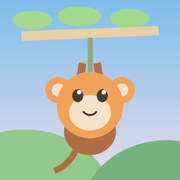
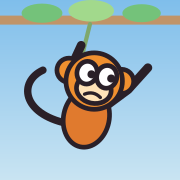
Add files via upload

diff --git a/index.html b/index.html
@@ -6,11 +6,11 @@
 <meta name="apple-mobile-web-app-capable" content="yes">
 <meta name="mobile-web-app-capable" content="yes">
 <meta name="apple-mobile-web-app-status-bar-style" content="black-translucent">
-<meta name="apple-mobile-web-app-title" content="Thread">
+<meta name="apple-mobile-web-app-title" content="Chimpy">
 <meta name="theme-color" content="#7FBEEB">
 <link rel="manifest" href="manifest.json">
 <link rel="apple-touch-icon" href="icons/icon-180.png">
-<title>Thread</title>
+<title>Chimpy</title>
 <style>
   * { margin:0; padding:0; box-sizing:border-box; -webkit-tap-highlight-color:transparent; }
   html, body {
@@ -94,10 +94,10 @@ const COL = {
   fruit: "#E0685C",
   bark: "#C09468",
 
-  fur: "#F2A257",    // the monkey pops against all of it
-  furDark: "#D07F42",
-  belly: "#FBEBD2",
-  ink: "#3F3A46",
+  fur: "#F0902F",    // the monkey pops against all of it
+  furDark: "#E07A2E",
+  belly: "#FFE3B8",
+  ink: "#2A2028",
   accent: "#F0B455",
   bad: "#E0685C",
   rope: "#7FA86B",
@@ -368,6 +368,8 @@ const hash = (n) => {
       canvas.style.height = h + "px";
       canvas.style.width = w + "px";
       canvas.style.height = h + "px";
+      canvas.style.width = w + "px";
+      canvas.style.height = h + "px";
       canvas.width = Math.round(w * dpr);
       canvas.height = Math.round(h * dpr);
       const probe = document.getElementById("safe");
@@ -578,84 +580,76 @@ const hash = (n) => {
     };
 
     /* ---------- character ----------
-       flat shapes only. no outlines, no gradients — forms read by colour
-       separation, with one darker tone for anything underneath */
+       drawn in the same units as the SVG mark (head radius 42) and scaled
+       down, so the game character and the site character are the same
+       drawing. flat fills, one dark outline, gentle frown. */
     const drawMonkey = (s, ang) => {
-      const r = PR * 1.9;
-      const t = s.armT;
-      const mixp = (a, b) => a + (b - a) * t;
+      const SC = PR / 24;
+      const t = s.armT;                       // 1 holding the vine, 0 flying
+      const mix = (a, b) => a + (b - a) * t;
 
       ctx.save();
       ctx.translate(s.px, s.py);
-      ctx.rotate(ang);
-
-      // tail — one clean curve, rounded cap
-      const tw = Math.sin(s.tailPhase) * 0.45;
-      ctx.beginPath();
-      ctx.moveTo(-r * 0.5, r * 0.35);
-      ctx.quadraticCurveTo(-r * 2.1, r * 0.55 + tw * r,
-                           -r * 2.0, -r * 0.45 + tw * r * 1.4);
-      ctx.strokeStyle = COL.furDark;
-      ctx.lineWidth = 5;
+      ctx.rotate(ang + (12 * Math.PI / 180) * t);   // leans while swinging
+      ctx.scale(SC, SC);
+      ctx.lineJoin = "round";
       ctx.lineCap = "round";
-      ctx.stroke();
+      ctx.strokeStyle = COL.ink;
 
-      // arms behind the body
-      ctx.strokeStyle = COL.furDark;
-      ctx.lineWidth = 6.5;
-      ctx.beginPath();
-      ctx.moveTo(mixp(-r * 0.5, -r * 0.4), mixp(r * 0.05, -r * 0.1));
-      ctx.lineTo(mixp(-r * 1.7, -r * 0.45), mixp(-r * 0.55, -r * 1.6));
-      ctx.moveTo(mixp(r * 0.5, r * 0.4), mixp(r * 0.05, -r * 0.1));
-      ctx.lineTo(mixp(r * 1.6, r * 0.45), mixp(-r * 0.25, -r * 1.6));
-      ctx.stroke();
-
-      // body — a soft rounded blob
-      ctx.beginPath();
-      ctx.ellipse(0, r * 0.5, r * 0.72, r * 0.66, 0, 0, 6.3);
-      ctx.fillStyle = COL.furDark;
-      ctx.fill();
-
-      // ears
-      ctx.fillStyle = COL.fur;
-      ctx.beginPath(); ctx.arc(-r * 0.88, -r * 0.42, r * 0.36, 0, 6.3); ctx.fill();
-      ctx.beginPath(); ctx.arc(r * 0.88, -r * 0.42, r * 0.36, 0, 6.3); ctx.fill();
-      ctx.fillStyle = COL.belly;
-      ctx.beginPath(); ctx.arc(-r * 0.88, -r * 0.42, r * 0.18, 0, 6.3); ctx.fill();
-      ctx.beginPath(); ctx.arc(r * 0.88, -r * 0.42, r * 0.18, 0, 6.3); ctx.fill();
-
-      // head — big, the way a kids' character reads
-      ctx.beginPath();
-      ctx.arc(0, -r * 0.12, r * 0.92, 0, 6.3);
-      ctx.fillStyle = COL.fur;
-      ctx.fill();
-
-      // face patch
-      ctx.beginPath();
-      ctx.ellipse(0, r * 0.12, r * 0.6, r * 0.5, 0, 0, 6.3);
-      ctx.fillStyle = COL.belly;
-      ctx.fill();
-
-      // eyes: dot plus highlight
-      const open = s.blink > 0 ? 0.12 : 1;
-      for (const ex of [-r * 0.34, r * 0.34]) {
+      const stroked = (fill, w, path) => {
         ctx.beginPath();
-        ctx.ellipse(ex, -r * 0.3, r * 0.15, r * 0.18 * open, 0, 0, 6.3);
+        path();
+        ctx.lineWidth = w;
+        ctx.stroke();
+        if (fill) { ctx.fillStyle = fill; ctx.fill(); }
+      };
+
+      // tail
+      ctx.lineWidth = 11;
+      ctx.beginPath();
+      ctx.moveTo(-26, 40);
+      ctx.bezierCurveTo(-96, 40, -110, -6, -78, -30);
+      ctx.stroke();
+
+      // arms: gripping up when held, swept out when free
+      ctx.lineWidth = 13;
+      ctx.beginPath();
+      ctx.moveTo(-22, 4);
+      ctx.lineTo(mix(-52, -40), mix(-20, -34));
+      ctx.lineTo(mix(-84, -30), mix(-2, -78));
+      ctx.moveTo(22, 6);
+      ctx.lineTo(mix(56, 52), mix(-8, -28));
+      ctx.lineTo(mix(86, 74), mix(-18, -66));
+      ctx.stroke();
+
+      ctx.lineWidth = 7;
+      // body
+      stroked(COL.furDark, 7, () => ctx.ellipse(0, 26, 34, 44, 0, 0, 6.3));
+      // ears
+      stroked(COL.fur, 7, () => ctx.arc(-40, -38, 18, 0, 6.3));
+      stroked(COL.fur, 7, () => ctx.arc(40, -38, 18, 0, 6.3));
+      // head
+      stroked(COL.fur, 7, () => ctx.arc(0, -30, 42, 0, 6.3));
+      // face patch
+      stroked(COL.belly, 7, () => ctx.ellipse(2, -18, 26, 21, 0, 0, 6.3));
+
+      // eyes, looking where he is going
+      const open = s.blink > 0 ? 0.14 : 1;
+      stroked("#FFFFFF", 7,
+        () => ctx.ellipse(-13, -40, 15, 17 * open, 0, 0, 6.3));
+      stroked("#FFFFFF", 7,
+        () => ctx.ellipse(17, -40, 15, 17 * open, 0, 0, 6.3));
+      if (open > 0.5) {
         ctx.fillStyle = COL.ink;
-        ctx.fill();
-        if (open > 0.5) {
-          ctx.beginPath();
-          ctx.arc(ex + r * 0.06, -r * 0.36, r * 0.05, 0, 6.3);
-          ctx.fillStyle = "#FFFFFF";
-          ctx.fill();
-        }
+        ctx.beginPath(); ctx.arc(-6, -39, 6, 0, 6.3); ctx.fill();
+        ctx.beginPath(); ctx.arc(24, -39, 6, 0, 6.3); ctx.fill();
       }
 
-      // small smile
+      // gentle frown
+      ctx.lineWidth = 5;
       ctx.beginPath();
-      ctx.arc(0, r * 0.04, r * 0.2, 0.3, Math.PI - 0.3);
-      ctx.strokeStyle = COL.ink;
-      ctx.lineWidth = 2.2;
+      ctx.moveTo(-10, -8);
+      ctx.quadraticCurveTo(2, -16, 14, -8);
       ctx.stroke();
 
       ctx.restore();
@@ -741,8 +735,17 @@ const hash = (n) => {
       // ---- ground, two bands
       {
         const gy = H * 0.90;
+        // wavy top edge — a fillRect here leaves a hard line across the screen
         ctx.fillStyle = COL.ground2;
-        ctx.fillRect(-40, gy, W + 80, H - gy + 120);
+        ctx.beginPath();
+        ctx.moveTo(-40, gy);
+        for (let x = -40; x <= W + 40; x += 20) {
+          ctx.lineTo(x, gy + Math.sin((x + cx * 0.18) / 240 + 2.1) * 14);
+        }
+        ctx.lineTo(W + 40, H + 120);
+        ctx.lineTo(-40, H + 120);
+        ctx.closePath();
+        ctx.fill();
         ctx.fillStyle = COL.ground1;
         ctx.beginPath();
         ctx.moveTo(-40, gy + 40);
@@ -766,16 +769,22 @@ const hash = (n) => {
       const L = cx - vw / 2, R = cx + vw / 2, T = cy - vh / 2, B = cy + vh / 2;
 
       // canopy shade, faded out so it has no visible edge
-      const cz = ctx.createLinearGradient(0, WORLD_TOP, 0, 320);
+      const cz = ctx.createLinearGradient(0, WORLD_TOP + 220, 0, 320);
       cz.addColorStop(0, "rgba(76,109,115,0.22)");
       cz.addColorStop(1, "rgba(76,109,115,0)");
       ctx.fillStyle = cz;
-      ctx.fillRect(L - 50, WORLD_TOP, vw + 100, 320 - WORLD_TOP);
+      ctx.fillRect(L - 50, WORLD_TOP + 220, vw + 100, 320 - WORLD_TOP - 220);
+      ctx.fillStyle = "rgba(76,109,115,0.22)";
+      ctx.fillRect(L - 50, WORLD_TOP - 400, vw + 100, 620);
+      // undergrowth: fades in at the top and then runs all the way to the
+      // bottom of the world. stopping it short left a hard edge on screen
       const hz = ctx.createLinearGradient(0, DEATH_Y - 220, 0, DEATH_Y + 40);
       hz.addColorStop(0, "rgba(76,109,115,0)");
       hz.addColorStop(1, "rgba(76,109,115,0.92)");
       ctx.fillStyle = hz;
       ctx.fillRect(L - 50, DEATH_Y - 220, vw + 100, 260);
+      ctx.fillStyle = "rgba(76,109,115,0.92)";
+      ctx.fillRect(L - 50, DEATH_Y + 40, vw + 100, WORLD_BOT - DEATH_Y);
 
       // the trunks you actually play against
       const leafyColumn = (x, y0, y1) => {
@@ -935,10 +944,6 @@ const hash = (n) => {
       ctx.restore();
 
 
-      if (s.flash > 0) {
-        ctx.fillStyle = "rgba(255,246,214," + s.flash * 0.3 + ")";
-        ctx.fillRect(0, 0, W, H);
-      }
 
       /* ---------- hud ---------- */
       const u = s.ui;

diff --git a/sw.js b/sw.js
@@ -1,4 +1,4 @@
-var CACHE = "thread-v13";
+var CACHE = "chimpy-v2";
 var ASSETS = ["./", "./index.html", "./manifest.json",
   "./icons/icon-180.png", "./icons/icon-192.png", "./icons/icon-512.png"];
 self.addEventListener("install", function (e) {

diff --git a/README.md b/README.md
@@ -1,24 +1,22 @@
-# Thread
+# Chimpy
 
 Swing on a vine, let go at the right moment, fly through the gap. One tap.
 
+Game logic is the build previously tagged thread-v13.
+Fingerprints: G = 606, RAMP = 38, gap lerp(238, 58).
+
+## Install on iPhone
+1. Open the GitHub Pages URL in Safari
+2. Share -> Add to Home Screen
+3. Fullscreen, portrait, works offline
+
 ## Physics
 Branches sit AHEAD of your flight path, so you catch each vine from behind
-and below and sweep about 95 degrees of arc. Energy is conserved during a
-swing but carried from your entry. Pendulum period 3.69s, amplitude 71 deg.
+and below and sweep about 95 degrees. Period 3.69s, amplitude 71 degrees.
+Energy is conserved during a swing but carried from your entry, so the vine
+can never pump you.
 
 ## Difficulty
-Ramps over 38 gaps. Measured release windows:
-
-  gap    opening   window
-    0      238px    627ms
-    5      214px    609ms
-   10      191px    586ms
-   20      143px    502ms
-   30       96px    383ms
-   38       58px    272ms
-
-Branches are aimed at a target height, so the route rises and falls;
-height spread widens from sd 24 to sd 78 as you go.
-
-0 generation failures in 2700 segments across gaps 0-90.
+Opening 238px -> 58px over 38 gaps. Release window 627ms -> 272ms.
+Layout variation widens as you go: entry angle 47-53 deg -> 33-67,
+branch height spread sd 24 -> 78. Stops getting harder at 38.
